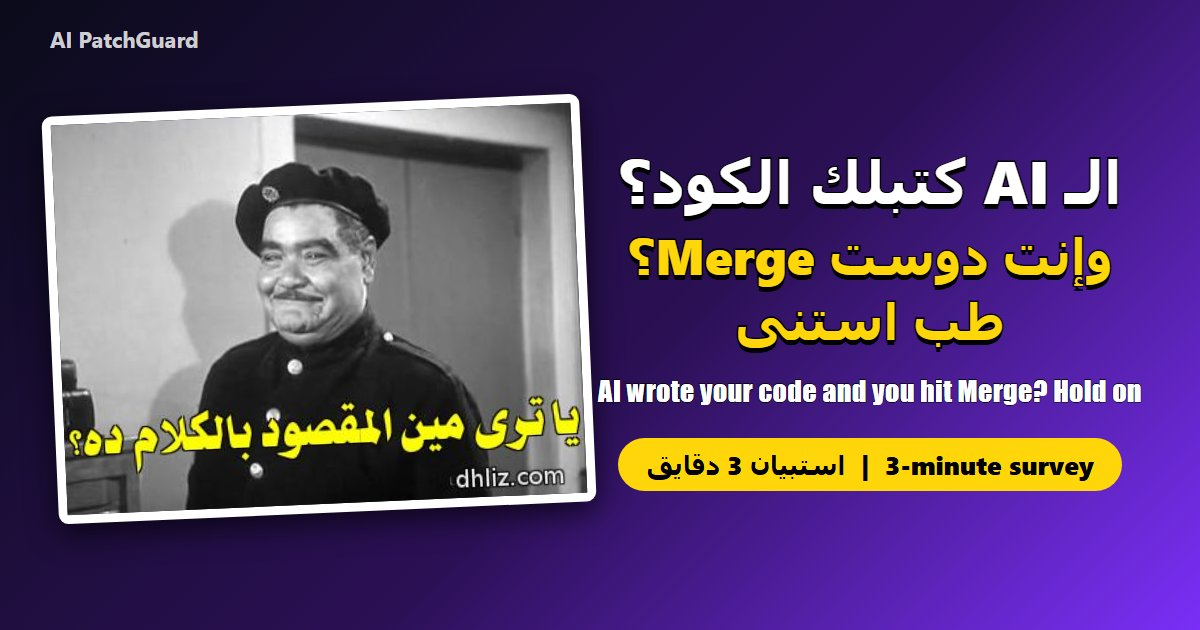
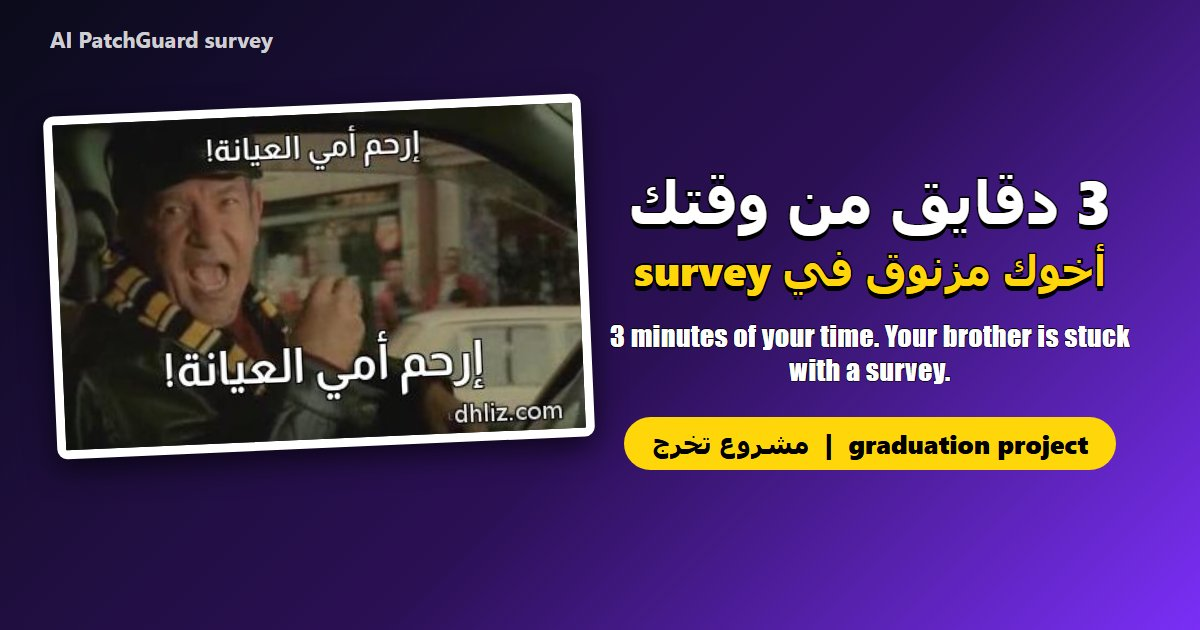
New hook and card for the survey landing page

diff --git a/index.html b/index.html
@@ -3,11 +3,11 @@
 <head>
 <meta charset="utf-8">
 <meta name="viewport" content="width=device-width, initial-scale=1">
-<title>الـ AI كتبلك الكود وإنت دوست Merge؟ طب استنى</title>
-<meta name="description" content="استبيان 3 دقايق عن فكرة AI PatchGuard. 3-minute survey about the idea of AI PatchGuard.">
+<title>3 دقايق من وقتك، أخوك مزنوق في survey</title>
+<meta name="description" content="استبيان عن فكرة مشروع تخرج (AI PatchGuard). 3 minutes of your time: a graduation project survey.">
 <meta property="og:type" content="website">
-<meta property="og:title" content="الـ AI كتبلك الكود وإنت دوست Merge؟ طب استنى">
-<meta property="og:description" content="استبيان 3 دقايق عن فكرة AI PatchGuard. 3-minute survey about the idea of AI PatchGuard.">
+<meta property="og:title" content="3 دقايق من وقتك، أخوك مزنوق في survey">
+<meta property="og:description" content="استبيان عن فكرة مشروع تخرج (AI PatchGuard). 3 minutes of your time: a graduation project survey.">
 <meta property="og:image" content="https://xchan404.github.io/ai-patchguard-survey/card.jpg">
 <meta property="og:image:width" content="1200">
 <meta property="og:image:height" content="630">
@@ -27,7 +27,7 @@
 </head>
 <body>
 <main>
-  <img src="card.jpg" alt="الـ AI كتبلك الكود وإنت دوست Merge؟ طب استنى / AI wrote your code and you hit Merge? Hold on" width="1200" height="630">
+  <img src="card.jpg" alt="3 دقايق من وقتك، أخوك مزنوق في survey / 3 minutes of your time. Your brother is stuck with a survey." width="1200" height="630">
   <p>استبيان قصير (3 دقايق) عن فكرة مشروع تخرج. رأيك مهم، ومحدش بيختبرك.</p>
   <p class="en">A short (3-minute) survey about a graduation project idea. Your honest opinion matters.</p>
   <a class="btn" href="https://docs.google.com/forms/d/e/1FAIpQLSfKcX2nm7Lo24B392qAQj5WmpJuGWhrCaEumsLiOAVeWmaEeg/viewform"><span dir="rtl">ابدأ الاستبيان</span> | <span dir="ltr">Start the survey</span></a>
